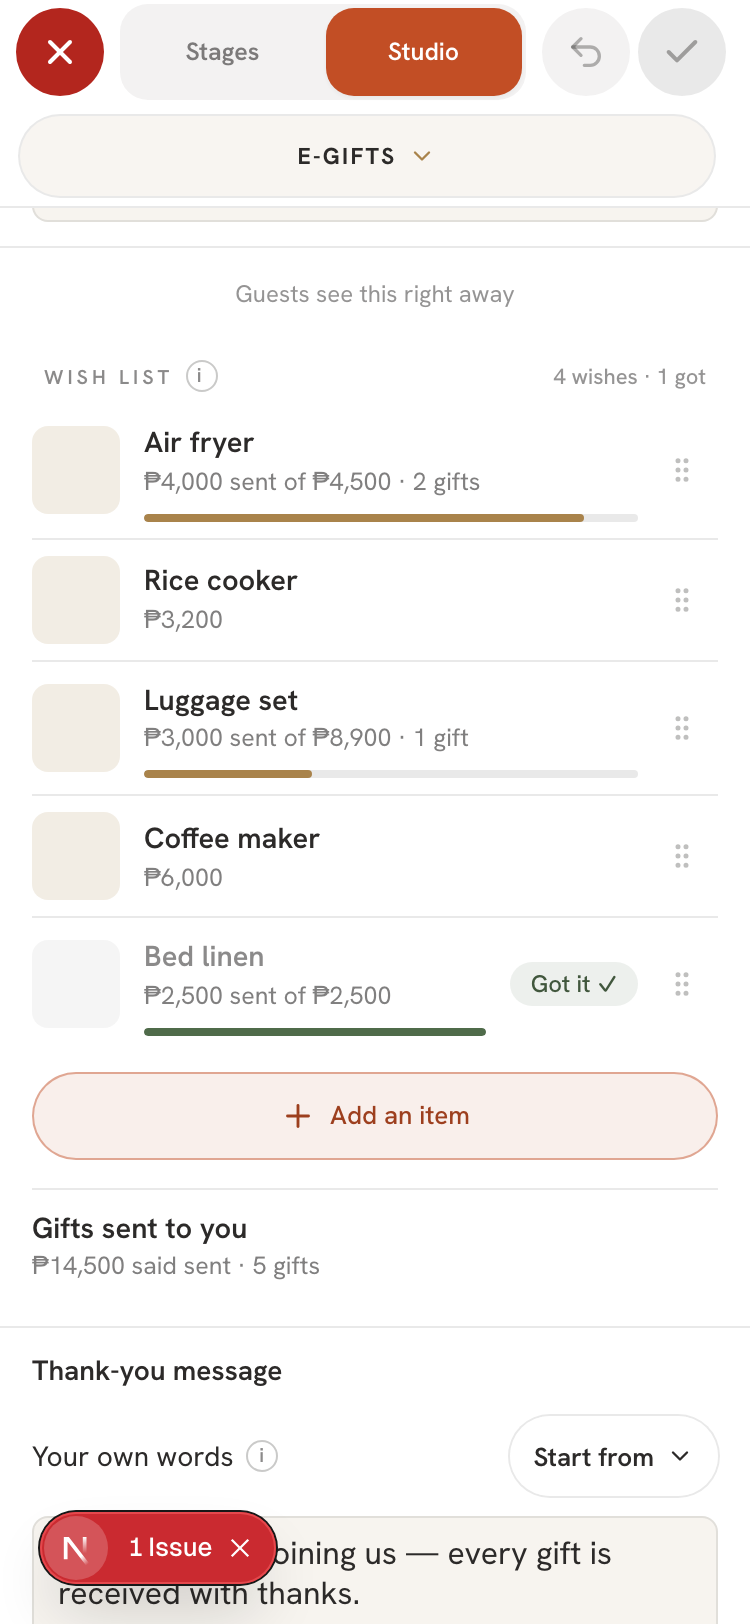
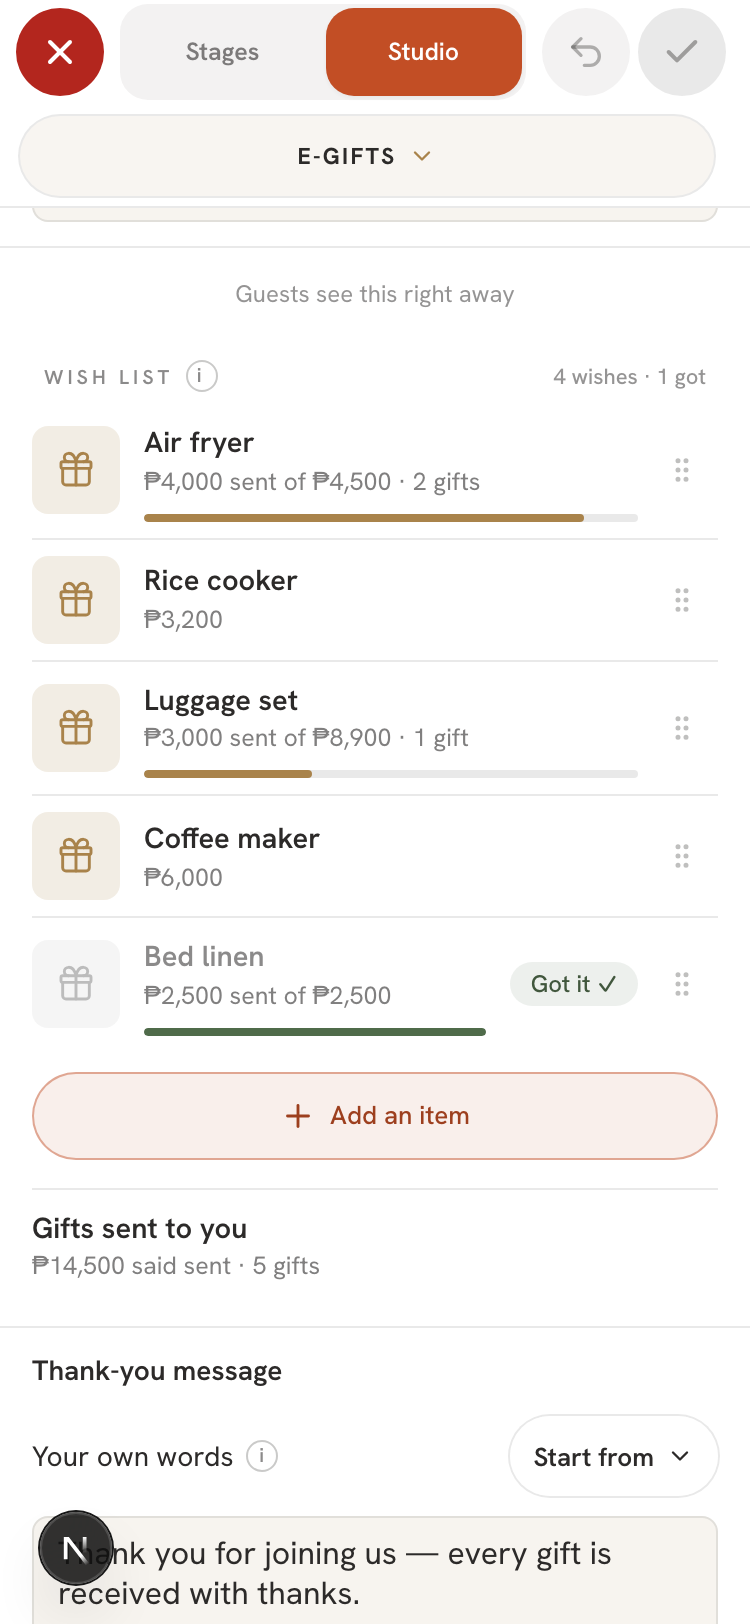
status: E-Gifts wish list — E-PR3 #6440 pushed; no-photo glyph; main merged; guest captures at 375

diff --git a/EGIFTS_WISH_LIST_BUILD_STATUS_2026-10-08.md b/EGIFTS_WISH_LIST_BUILD_STATUS_2026-10-08.md
@@ -4,22 +4,29 @@ Contract: `EGIFTS_WISH_LIST_2026-10-08_fable.md` · prototype `prototypes/egifts
 Worktree: `~/Documents/Claude/Projects/wt-wish` (on `rd/wish-list-studio`).
 Built-vs-prototype at 375 px: `prototypes/wish-list-built-2026-10-08/` (8 side-by-sides + 8 built frames; the maker lab on fixtures).
 
-## DONE (pushed · both DRAFT · `do-not-auto-merge` · auto-merge off)
+## DONE (pushed · all three DRAFT · `do-not-auto-merge` · auto-merge off)
 
 | Step | Branch | PR | Head |
 |---|---|---|---|
-| **E-PR1 · the two tables** | `rd/wish-list-tables` (from `origin/main` `560e6d0f0`; `main` `9b2065225` merged in) | **#6432** | `937358e65` |
-| **E-PR2 · Studio › Wish list** | `rd/wish-list-studio` (from `origin/rd/studio-reply-by-editable` `83c336a26` — since merged to `main` — + the tables branch) | **#6435** | `540bbd12e` |
+| **E-PR1 · the two tables** | `rd/wish-list-tables` (`main` `9b2065225` merged in) | **#6432** | `937358e65` |
+| **E-PR2 · Studio › Wish list** | `rd/wish-list-studio` (on the tables branch) | **#6435** | `0e1719a38` |
+| **E-PR3 · the guest's list + send sheet** | `rd/wish-list-guest` (on the Studio branch) | **#6440** | `a3eda2880` |
 
-**E-PR1 carries ONE migration: `supabase/migrations/20271266228704_the_wish_list_two_tables.sql`.** The pipeline applies it. Never apply it by hand. E-PR2 adds none.
+**E-PR1 carries ONE migration: `supabase/migrations/20271266228704_the_wish_list_two_tables.sql`.** The pipeline applies it. Never apply it by hand. E-PR2 and E-PR3 add none. Nothing is deployed.
 
-## CI
-- #6432's first run: one red test of 22,913 (`the committed screens map matches a fresh scan exactly`) — fixed by regenerating `screens.generated.json`. It then conflicted with `main` on that same generated file when the Event Hub train merged; `main` is merged in and the file regenerated. New runs were queued when this was written — **not seen green yet**.
-- #6435: runs queued — **not seen green yet**. The two bundle budgets are CI's to measure (`production build` · `bundle size check`).
+Built-vs-prototype at 375 px: `prototypes/wish-list-built-2026-10-08/` (Studio, frames 02–06 · 09–11) and `…/guest/` (frames 12–17 · 21–23, plus 17b = the send sheet for a reader the event does not recognise).
+
+## CI (read 2026-10-08 ~13:00 PHT — re-read before acting)
+- #6432 @ `937358e65`: 14 pass, `typecheck + lint` still running (its first run's one red test — the stale Ugat screens map — is fixed).
+- #6435 @ `0e1719a38` and #6440 @ `a3eda2880`: runs in progress — **not seen green yet**. The two bundle budgets are CI's to measure.
+
+## Controller's three items (2026-10-08, after reading frames 02–11)
+1. **`main` `9b2065225` merged** into the tables branch, and that into the Studio branch. Baselines regenerated on each: `ugat:screens` (changed on both) · `port:baseline` (changed on Studio and guest; on the tables branch only its ref stamp moved, so it was left) · `root-map`, `lint-no-card --update-baseline`, `exposure:baseline` (unchanged). Count headers rechecked: exposure 6646 facts · `ugat-both-ends` 45 on tables / 44 on Studio and guest.
+2. **A wish with no photo draws ONE gift glyph** (lucide `Gift`) in its square — Studio rows and the guest's list. The prototype's fryer / cooker / luggage drawings are per-item stand-ins for the couple's own photos with no rule behind them. Inside the lazy Studio chunk; nothing added to the Maker's first load.
+3. **Scratch:** everything of mine now lives under `<session scratchpad>/e1-wish/`. Before that I wrote to the SHARED top level: `capture.mjs`, `run-capture.sh`, `tsc.log`, `dev.log`, `capture.log`, `bak/` (two files), `shots/` (created, nothing written), and several `*.txt` / `*.log` lists. `capture.mjs`, `dev.log` and `capture.log` existed or were written by another builder at the same time — treat those three as possibly clobbered.
 
 ## TODO
-- **E-PR3** · guest list + send sheet (`/[slug]/pabuya`, the Welcome door's line) — not started.
-- **E-PR4** · the gift record ("I sent it" → Show the couple) — not started.
+- **E-PR4** · the gift record ("✓ I sent it" → Show the couple) — not started.
 - **E-PR5** · Gifts sent to you (the screen, one gift open, the screenshot route) — not started.
 
 ## What is in E-PR1
@@ -37,6 +44,14 @@ Built-vs-prototype at 375 px: `prototypes/wish-list-built-2026-10-08/` (8 side-b
 - `lib/tours.ts`: `customer_wish_list_v1`. `lib/r2-client-ref.ts`: `wishPhotoPolicy`. Event media sweep: wish photos are deleted with the event.
 - `ugat-both-ends` baseline 45 → 44.
 - Lab: `/dev/maker-lab?studio=1&tool=details&item=gifts&wish=five|empty|fail|noway|off` (open the E-Gifts tile).
+
+## What is in E-PR3
+- `app/[slug]/pabuya/_components/wish-list.tsx` — the guest's list (four shapes) and the send sheet. Takes the page's ready-drawn ways (`ways`) and, for 4/5, one prop `sent`.
+- `app/[slug]/pabuya/page.tsx` — reads the list beside the ways to give, asks `wishListShownToGuests`, resolves the shape from the picked E-Gifts look, mounts the list above the ways.
+- `lib/wish-list-guest.ts` (the guest's view and words, `wishListShape`, `wishDoorLine`) · `lib/wish-list.server.ts` `readGuestWishList` (service role; `WISH_GUEST_FIELDS` + `GIFT_SUM_FIELDS`).
+- The Welcome door's line: `loaders.ts` (`openWishCount`) → `site-nav.ts` (`GuestDoorways.wishes`) → `site-body.tsx` → `guest-welcome.tsx` → `guest-doorway-strip.tsx`.
+- `app/_components/pabuya/pabuya-card-list.tsx` — optional `idScope` (the second drawing's element ids).
+- Lab: `/dev/maker-lab/guest?wish=five|got|long|noprice|door&look=rows|side|tiles|ruled&known=0` (no new route).
 
 ## Type letters used
 **All 26 single letters are already passed to `generate_public_id` by some table** (`Y` by four, `C` by six), so none is free; the letter is a reading aid, never a key.
@@ -58,10 +73,21 @@ Built-vs-prototype at 375 px: `prototypes/wish-list-built-2026-10-08/` (8 side-b
 10. A way to give's label is the shipped one ("Bank transfer", the drawing says "Bank").
 11. A wish's link accepts a paste without its scheme (`shop.example/x` is kept as `https://shop.example/x`).
 
-## Traps for whoever builds E-PR3–5
+12. **(E-PR3) No "✓ I sent it" yet.** The send sheet draws ✕ Close alone and only "Setnayan never touches your money." — the screenshot sentence, "Sent a gift? Show the couple ›" and "You sent ₱ ✓" arrive with E-PR4 through the list's `sent` prop. *A button for a step that is not built would be a dead control.*
+13. **(E-PR3) No wish line on a solemn page's gift door.** "things they'd love" is a celebration's sentence and no quiet one is written; the list itself is still drawn on a wake's gift page. *Owner call: a quiet sentence, or no wish list at all for a wake.*
+14. **(E-PR3) The list's styles are classes in the component**, not three blocks in `globals.css` as the plan's table says. Same drawing, no global rule to collide with the door's `[data-part-look="gifts.*"] a` rules.
+15. **(E-PR3) A wish's shop link is not shown to guests** — the drawing shows none (the couple's note is shown).
+16. **(E-PR3) The door's first line is the shipped one** ("The digital money dance — straight to the couple." on a wedding); the drawing shows the plain "Send E-Gifts straight to the couple."
+17. **(E-PR3) The hub page's gift door has no wish line** (it builds its own doorway facts; not drawn in the prototype).
+18. **(E-PR3) I edited five guest files other builders may be in** — `site-body.tsx` (6 added lines), `guest-welcome.tsx`, `guest-doorway-strip.tsx`, `site-nav.ts`, `loaders.ts` — all additive. Expect a textual merge with #6433 / #6437.
+
+## Traps for whoever builds E-PR4–5
 - **A record's `wish_item_id` is a single-column FK** — nothing ties it to the same event. Every read filters on `event_id` too.
 - **Sums:** always `sumSent` / `sentByWish` (removed records never count). A guest page may read only `GIFT_SUM_FIELDS`; ask `wishListShownToGuests` whether to draw the list at all.
 - **Got it:** call `gotAfterGifts(wish, sentPhp)` in the action that adds / corrects / moves / removes a record; `'host'` is never touched by a sum. After a host flips OFF an auto-marked wish, the next record marks it again (the design's rule) — say so on the screen or raise it.
+- **E-PR4 hooks:** pass `sent={(wish) => <YourButton …/>}` to `WishList` (it also switches on the screenshot sentence); a guest's record names a wish by its PUBLIC id (`GuestWish.id`, `S89H-…`) — resolve it to the row with `event_id` in the same query. Two tests pin that the page hands in no `sent` — update them in that PR.
+- **The no-card lint** cannot see that a class string in a table belongs to a `<button>` — mark such lines `// no-card-ok: <why>`.
+- **The dup-rule guard** also refuses a LOCAL named like an imported module's export (`const openWishCount` beside `import … from wish-list-guest`).
 - **The honest-words guard** (`app/[slug]/_lib/the-guest-text-is-honest.test.ts`, `GIFT_SURFACES`): add every new gift surface to the list. It reads identifiers too — a state called `confirm` trips it.
 - **Data-subject register (E-PR4):** `event_gift_records.giver_name`, the message and the screenshot are a GUEST's personal data. The register's scan does not match `giver_name`; anchor it in the `guest` category in the PR that first writes a record. It changes the privacy register — surface it to the owner.
 - **Erasure (E-PR4):** a gift record has no account column, so the erasure detector cannot see it.
